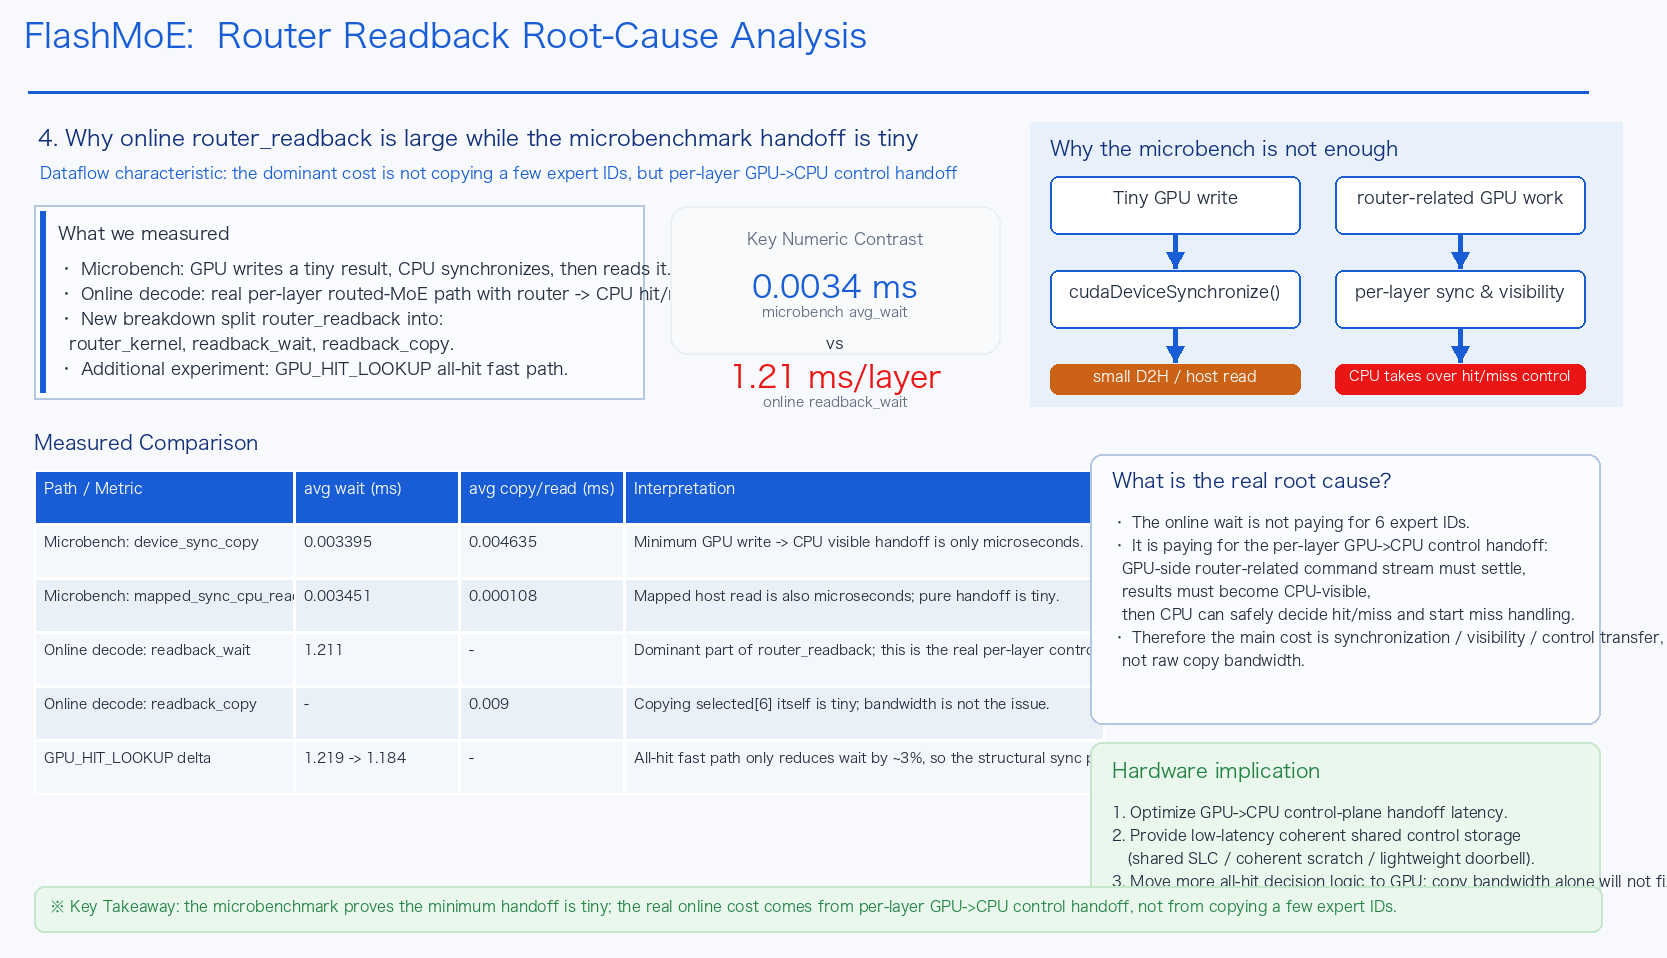
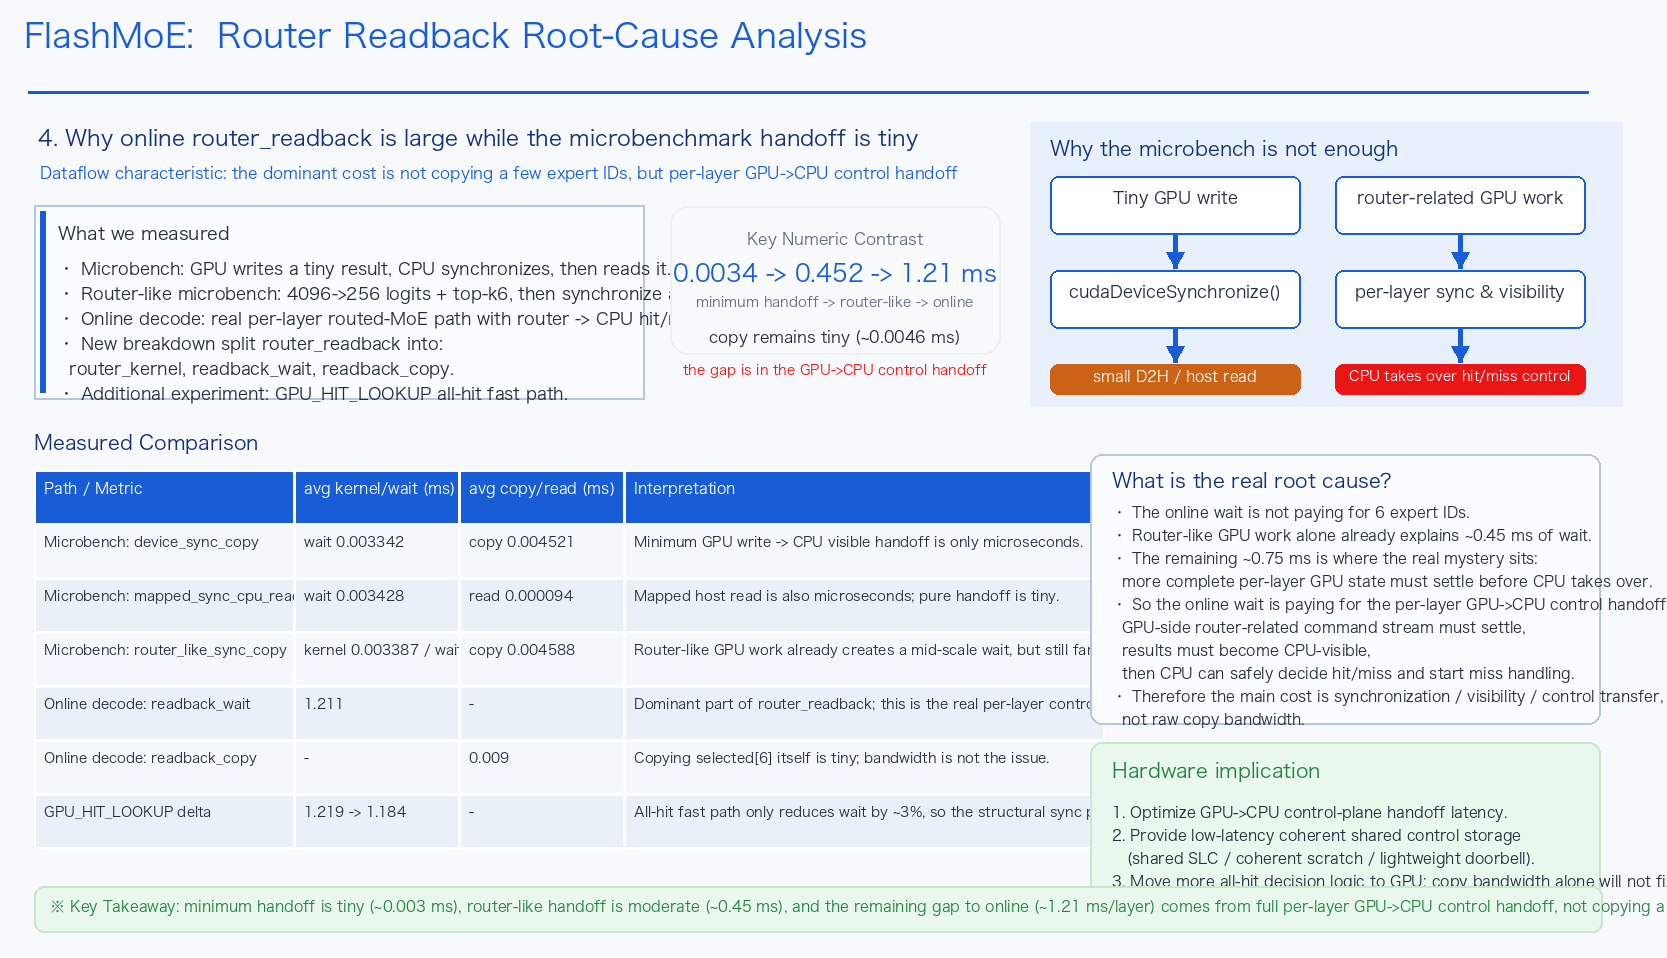
Update router readback materials with router-like microbench

diff --git a/tools/render_router_readback_slide.py b/tools/render_router_readback_slide.py
@@ -61,6 +61,7 @@ txt(
     58,
     260,
     "• Microbench: GPU writes a tiny result, CPU synchronizes, then reads it.\n"
+    "• Router-like microbench: 4096->256 logits + top-k6, then synchronize and read selected[6].\n"
     "• Online decode: real per-layer routed-MoE path with router -> CPU hit/miss control handoff.\n"
     "• New breakdown split router_readback into:\n"
     "  router_kernel, readback_wait, readback_copy.\n"
@@ -72,11 +73,10 @@ txt(
 
 rect(670, 206, 330, 148, (249, 250, 252), (236, 240, 245), 2, 18)
 txt(835, 230, "Key Numeric Contrast", 16, GRAY, "ma")
-txt(835, 270, "0.0034 ms", 31, BLUE, "ma")
-txt(835, 304, "microbench avg_wait", 14, GRAY, "ma")
-txt(835, 334, "vs", 16, DARK, "ma")
-txt(835, 360, "1.21 ms/layer", 31, RED, "ma")
-txt(835, 394, "online readback_wait", 14, GRAY, "ma")
+txt(835, 260, "0.0034 -> 0.452 -> 1.21 ms", 24, BLUE, "ma")
+txt(835, 294, "minimum handoff -> router-like -> online", 14, GRAY, "ma")
+txt(835, 328, "copy remains tiny (~0.0046 ms)", 16, DARK, "ma")
+txt(835, 362, "the gap is in the GPU->CPU control handoff", 14, RED, "ma")
 
 rect(1030, 122, 592, 284, LIGHT_BLUE, LIGHT_BLUE, 1, 0)
 txt(1050, 138, "Why the microbench is not enough", 20, NAVY)
@@ -102,10 +102,11 @@ txt(34, 432, "Measured Comparison", 20, NAVY)
 table_x, table_y = 34, 470
 col_w = [260, 165, 165, 480]
 row_h = 54
-headers = ["Path / Metric", "avg wait (ms)", "avg copy/read (ms)", "Interpretation"]
+headers = ["Path / Metric", "avg kernel/wait (ms)", "avg copy/read (ms)", "Interpretation"]
 rows = [
-    ["Microbench: device_sync_copy", "0.003395", "0.004635", "Minimum GPU write -> CPU visible handoff is only microseconds."],
-    ["Microbench: mapped_sync_cpu_read", "0.003451", "0.000108", "Mapped host read is also microseconds; pure handoff is tiny."],
+    ["Microbench: device_sync_copy", "wait 0.003342", "copy 0.004521", "Minimum GPU write -> CPU visible handoff is only microseconds."],
+    ["Microbench: mapped_sync_cpu_read", "wait 0.003428", "read 0.000094", "Mapped host read is also microseconds; pure handoff is tiny."],
+    ["Microbench: router_like_sync_copy", "kernel 0.003387 / wait 0.452150", "copy 0.004588", "Router-like GPU work already creates a mid-scale wait, but still far below online."],
     ["Online decode: readback_wait", "1.211", "-", "Dominant part of router_readback; this is the real per-layer control handoff cost."],
     ["Online decode: readback_copy", "-", "0.009", "Copying selected[6] itself is tiny; bandwidth is not the issue."],
     ["GPU_HIT_LOOKUP delta", "1.219 -> 1.184", "-", "All-hit fast path only reduces wait by ~3%, so the structural sync point remains."],
@@ -130,9 +131,12 @@ rect(1090, 454, 510, 270, (250, 252, 255), BORDER, 2, 12)
 txt(1112, 470, "What is the real root cause?", 20, NAVY)
 txt(
     1112,
-    514,
+    504,
     "• The online wait is not paying for 6 expert IDs.\n"
-    "• It is paying for the per-layer GPU->CPU control handoff:\n"
+    "• Router-like GPU work alone already explains ~0.45 ms of wait.\n"
+    "• The remaining ~0.75 ms is where the real mystery sits:\n"
+    "  more complete per-layer GPU state must settle before CPU takes over.\n"
+    "• So the online wait is paying for the per-layer GPU->CPU control handoff:\n"
     "  GPU-side router-related command stream must settle,\n"
     "  results must become CPU-visible,\n"
     "  then CPU can safely decide hit/miss and start miss handling.\n"
@@ -161,7 +165,7 @@ rect(34, 886, 1568, 46, (233, 247, 236), (200, 230, 206), 2, 10)
 txt(
     50,
     898,
-    "※ Key Takeaway: the microbenchmark proves the minimum handoff is tiny; the real online cost comes from per-layer GPU->CPU control handoff, not from copying a few expert IDs.",
+    "※ Key Takeaway: minimum handoff is tiny (~0.003 ms), router-like handoff is moderate (~0.45 ms), and the remaining gap to online (~1.21 ms/layer) comes from full per-layer GPU->CPU control handoff, not copying a few expert IDs.",
     15,
     GREEN,
 )
